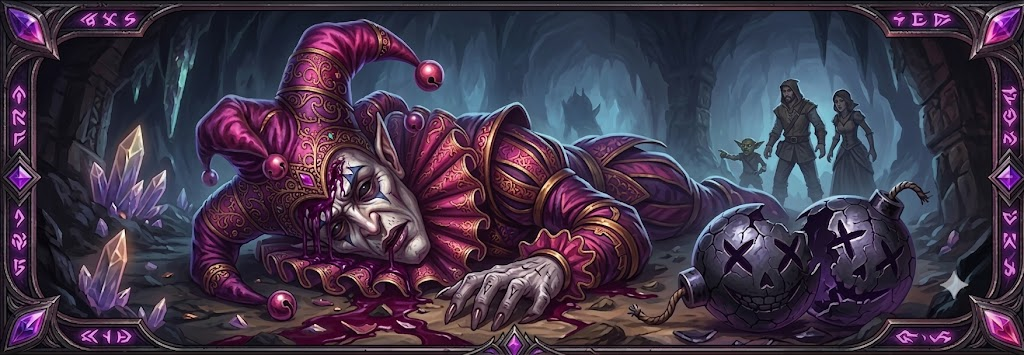
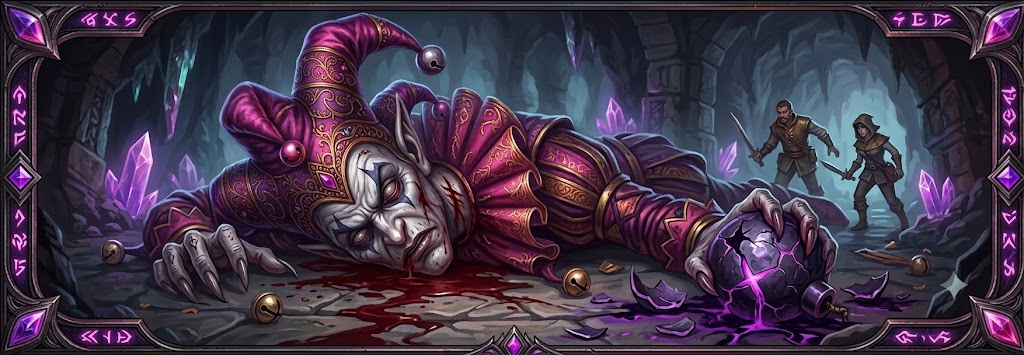
Fix Blade staying on blade_alive portrait instead of KO'd image after his second death

diff --git a/js/ui/characterCard.js b/js/ui/characterCard.js
@@ -207,7 +207,7 @@ export function renderCharacterCard(character, {
     portrait.src = 'assets/images/velorya_love.jpg';
   } else if (character.id === 'blade' && isBladeStrike && !character.isKO) {
     portrait.src = 'assets/images/blade_strike.jpg';
-  } else if (character.id === 'blade' && character.special.rebirthUsed) {
+  } else if (character.id === 'blade' && character.special.rebirthUsed && !character.isKO) {
     portrait.src = 'assets/images/blade_alive.jpg';
   } else if (character.isKO) {
     portrait.src = `assets/koed/${character.id}.jpg`;
